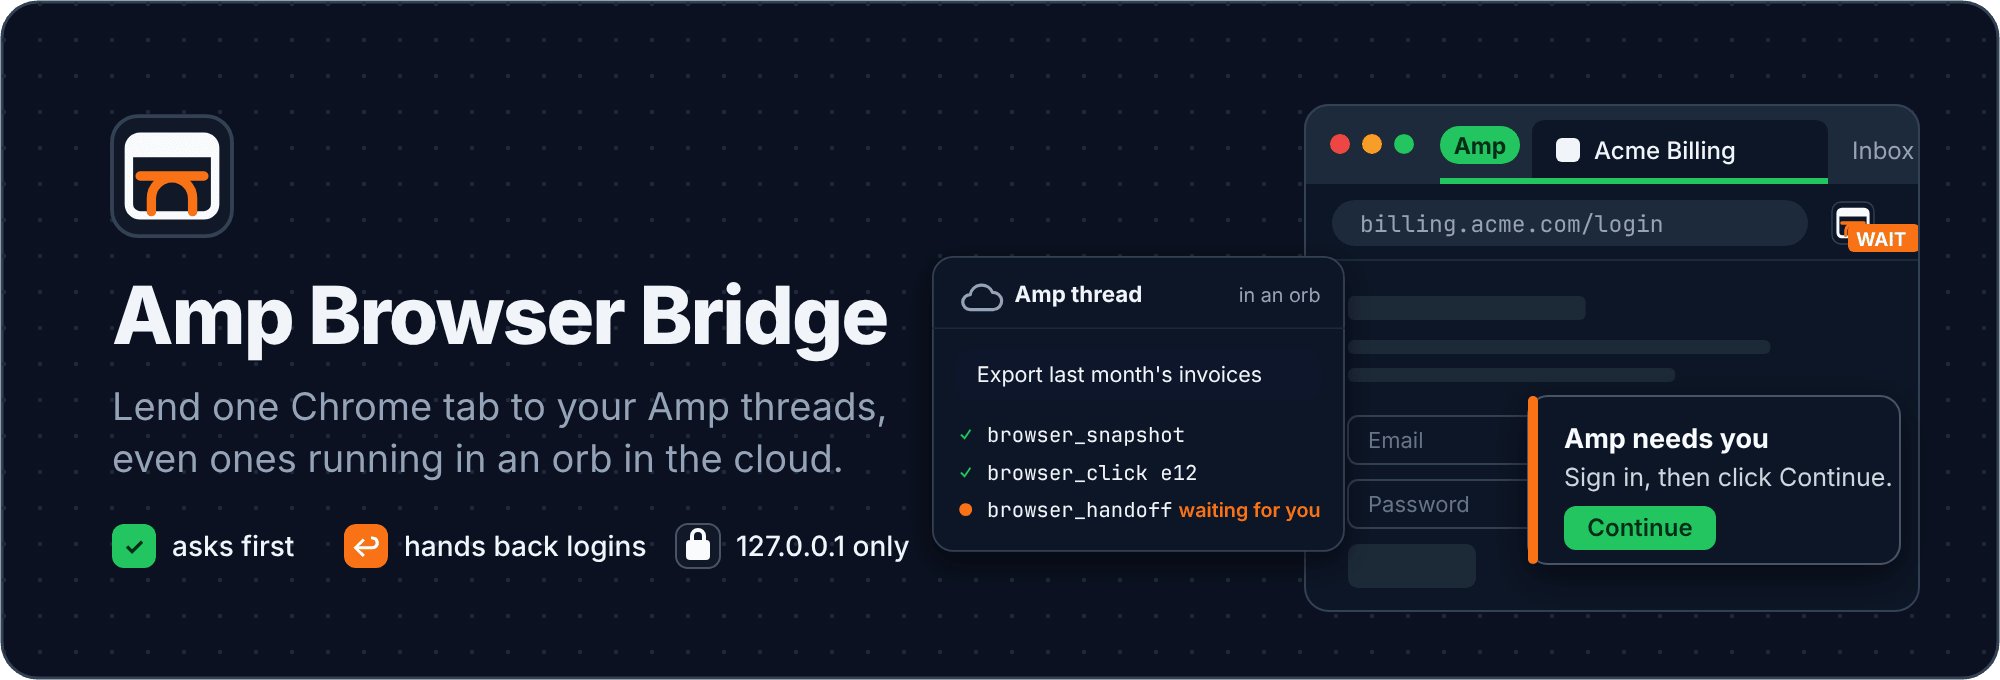
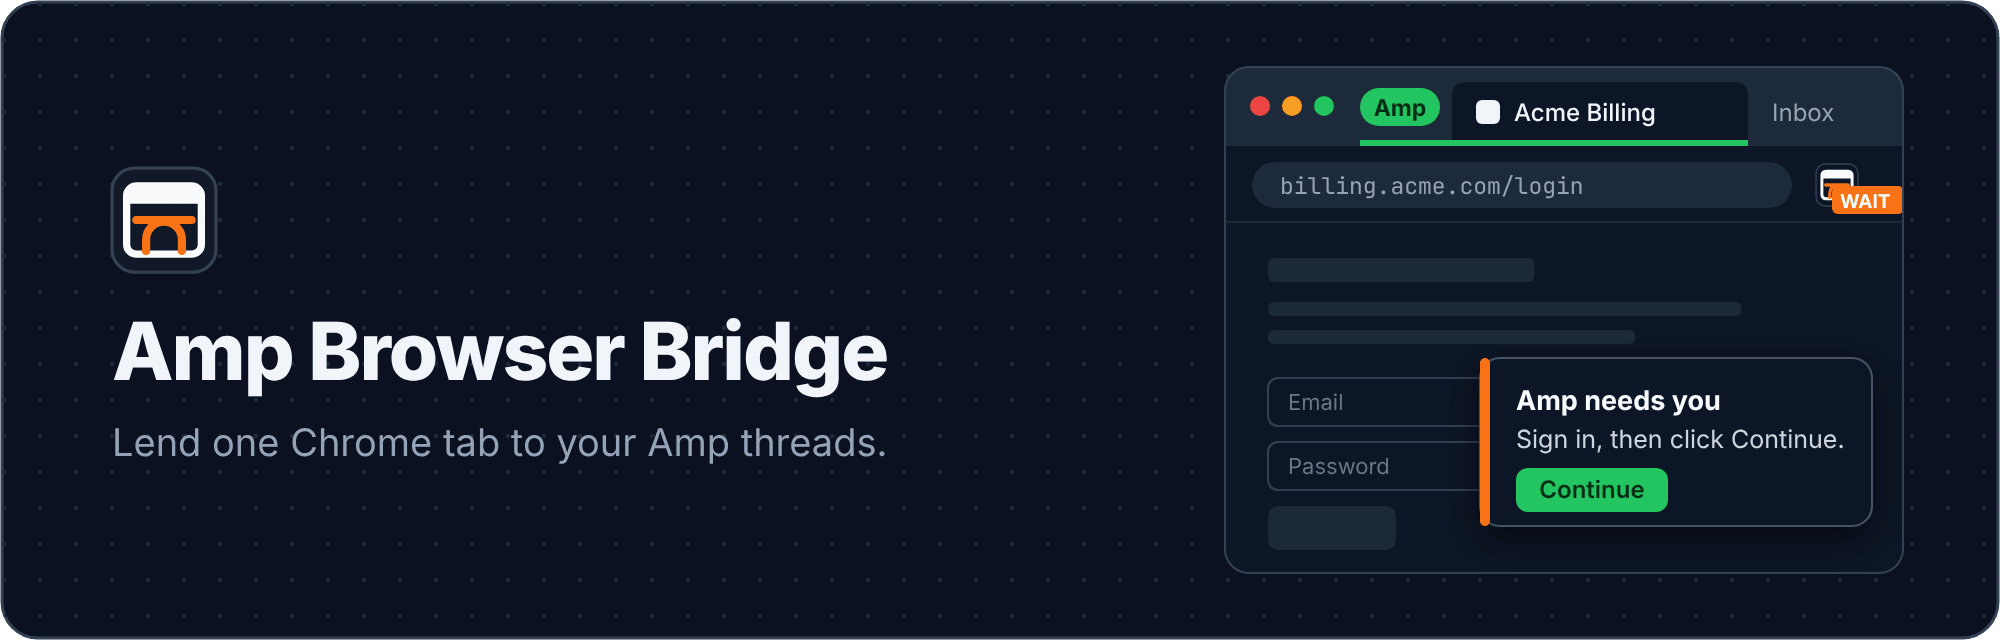
Calm the top of the README
Simplify the banner to the icon, the name, one line and the lent tab
with its handoff card, and drop the badges and the mock thread. Replace
the bold intro that repeated the banner with two plain sentences, and
remove the popup screenshots, which showed a test URL and a thread ID.

Amp-Thread-ID: https://ampcode.com/threads/T-01a202d6-9bcf-7366-9a96-0475e6782d22

diff --git a/docs/art/art.ts b/docs/art/art.ts
@@ -139,29 +139,15 @@ ${body}
 </svg>`;
 }
 
-// ---------- Banner: 1000x340 ----------
+// ---------- Banner: 1000x320 ----------
 function banner(t: T) {
-  const W = 1000, H = 340;
-  const link = `M 652 150 C 690 150, 680 200, 712 200`;
+  const W = 1000, H = 320;
   return svg(W, H, t, `
-  ${icon(56, 58, 60, t)}
-  ${text(56, 172, "Amp Browser Bridge", `${SANS} font-size="40" font-weight="800" letter-spacing="-1" fill="${t.ink}"`)}
-  ${text(56, 210, "Lend one Chrome tab to your Amp threads,", `${SANS} font-size="19" fill="${t.muted}"`)}
-  ${text(56, 236, "even ones running in an orb in the cloud.", `${SANS} font-size="19" fill="${t.muted}"`)}
-  <g>
-    <rect x="56" y="262" width="22" height="22" rx="6" fill="${t.green}"/>
-    ${text(67, 277.5, "✓", `${SANS} font-size="12" font-weight="700" fill="${t.greenInk}" text-anchor="middle"`)}
-    ${text(86, 278, "asks first", `${SANS} font-size="14" font-weight="500" fill="${t.ink}"`)}
-    <rect x="172" y="262" width="22" height="22" rx="6" fill="${t.orange}"/>
-    ${text(183, 278, "↩", `${SANS} font-size="13" font-weight="700" fill="#fff" text-anchor="middle"`)}
-    ${text(202, 278, "hands back logins", `${SANS} font-size="14" font-weight="500" fill="${t.ink}"`)}
-    <rect x="338" y="262" width="22" height="22" rx="6" fill="#111827" ${t.dark ? `stroke="#475569"` : ""}/>
-    ${lock(343, 264, "#f9fafb")}
-    ${text(368, 278, "127.0.0.1 only", `${SANS} font-size="14" font-weight="500" fill="${t.ink}"`)}
-  </g>
-  ${browser(652, 52, 308, 254, t)}
-  ${thread(466, 128, 240, t, 0.86)}
-  ${handoffCard(764, 198, 186, t)}
+  ${icon(56, 84, 52, t)}
+  ${text(56, 190, "Amp Browser Bridge", `${SANS} font-size="40" font-weight="800" letter-spacing="-1" fill="${t.ink}"`)}
+  ${text(56, 228, "Lend one Chrome tab to your Amp threads.", `${SANS} font-size="19" fill="${t.muted}"`)}
+  ${browser(612, 33, 340, 254, t)}
+  ${handoffCard(740, 179, 196, t)}
   `);
 }
 

diff --git a/README.md b/README.md
@@ -1,18 +1,11 @@
 <picture>
   <source media="(prefers-color-scheme: dark)" srcset="docs/banner-dark.png">
-  <img src="docs/banner-light.png" alt="Amp Browser Bridge: lend one Chrome tab to your Amp threads, even ones running in an orb in the cloud. An Amp thread in an orb has run browser_snapshot and browser_click and is waiting on browser_handoff, while the lent tab, in Chrome's green Amp tab group, shows the extension's WAIT badge and a card asking you to sign in, then click Continue.">
+  <img src="docs/banner-light.png" alt="Amp Browser Bridge: lend one Chrome tab to your Amp threads. The lent tab, in Chrome's green Amp tab group, shows the extension's WAIT badge and a card asking you to sign in, then click Continue.">
 </picture>
 
-**Lend one Chrome tab to your [Amp](https://ampcode.com) threads, even ones running in an orb in the
-cloud, or let them open background tabs of their own.** The agent reads the page as you see it,
-logins included, and asks before it clicks or types. When a step needs a person, like a login, a 2FA
-code or a payment, it hands the tab back to you and waits.
-
-<p align="center">
-  <img src="docs/popup-lent.png" width="320" alt="The extension popup with a tab lent read-only">
-  &nbsp;
-  <img src="docs/popup-handoff.png" width="320" alt="The popup while Amp waits for you to sign in and click Continue">
-</p>
+Your [Amp](https://ampcode.com) threads, even ones running in an orb in the cloud, can read a Chrome
+tab you lend them, logins included, and ask before they click or type. When a step needs a person,
+like a login, a 2FA code or a payment, the agent hands the tab back to you and waits.
 
 Ask things like:
 
